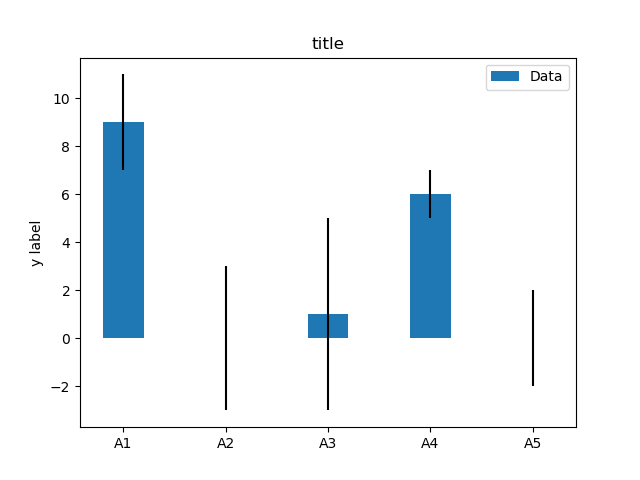
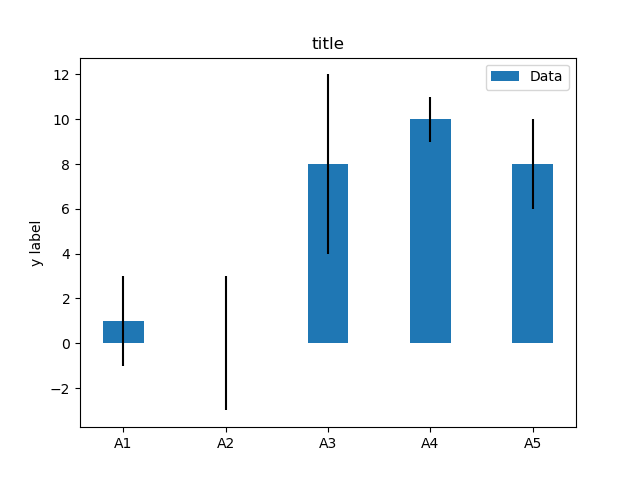
first commit

diff --git a/example.py b/example.py
@@ -2,7 +2,7 @@ import numpy as np
 import matplotlib.pyplot as plt
 
 labels = ['A1', 'A2', 'A3', 'A4', 'A5']
-m_means = [9,0,1,6,0]
+m_means = [1,0,8,10,8]
 m_std = [2, 3, 4, 1, 2]
 width = 0.40       # the width of the bars
 

diff --git a/README.md b/README.md
@@ -1,4 +1,4 @@
-# Matplotlib no 229 
+# Matplotlib no 230 
 
 python example
 
